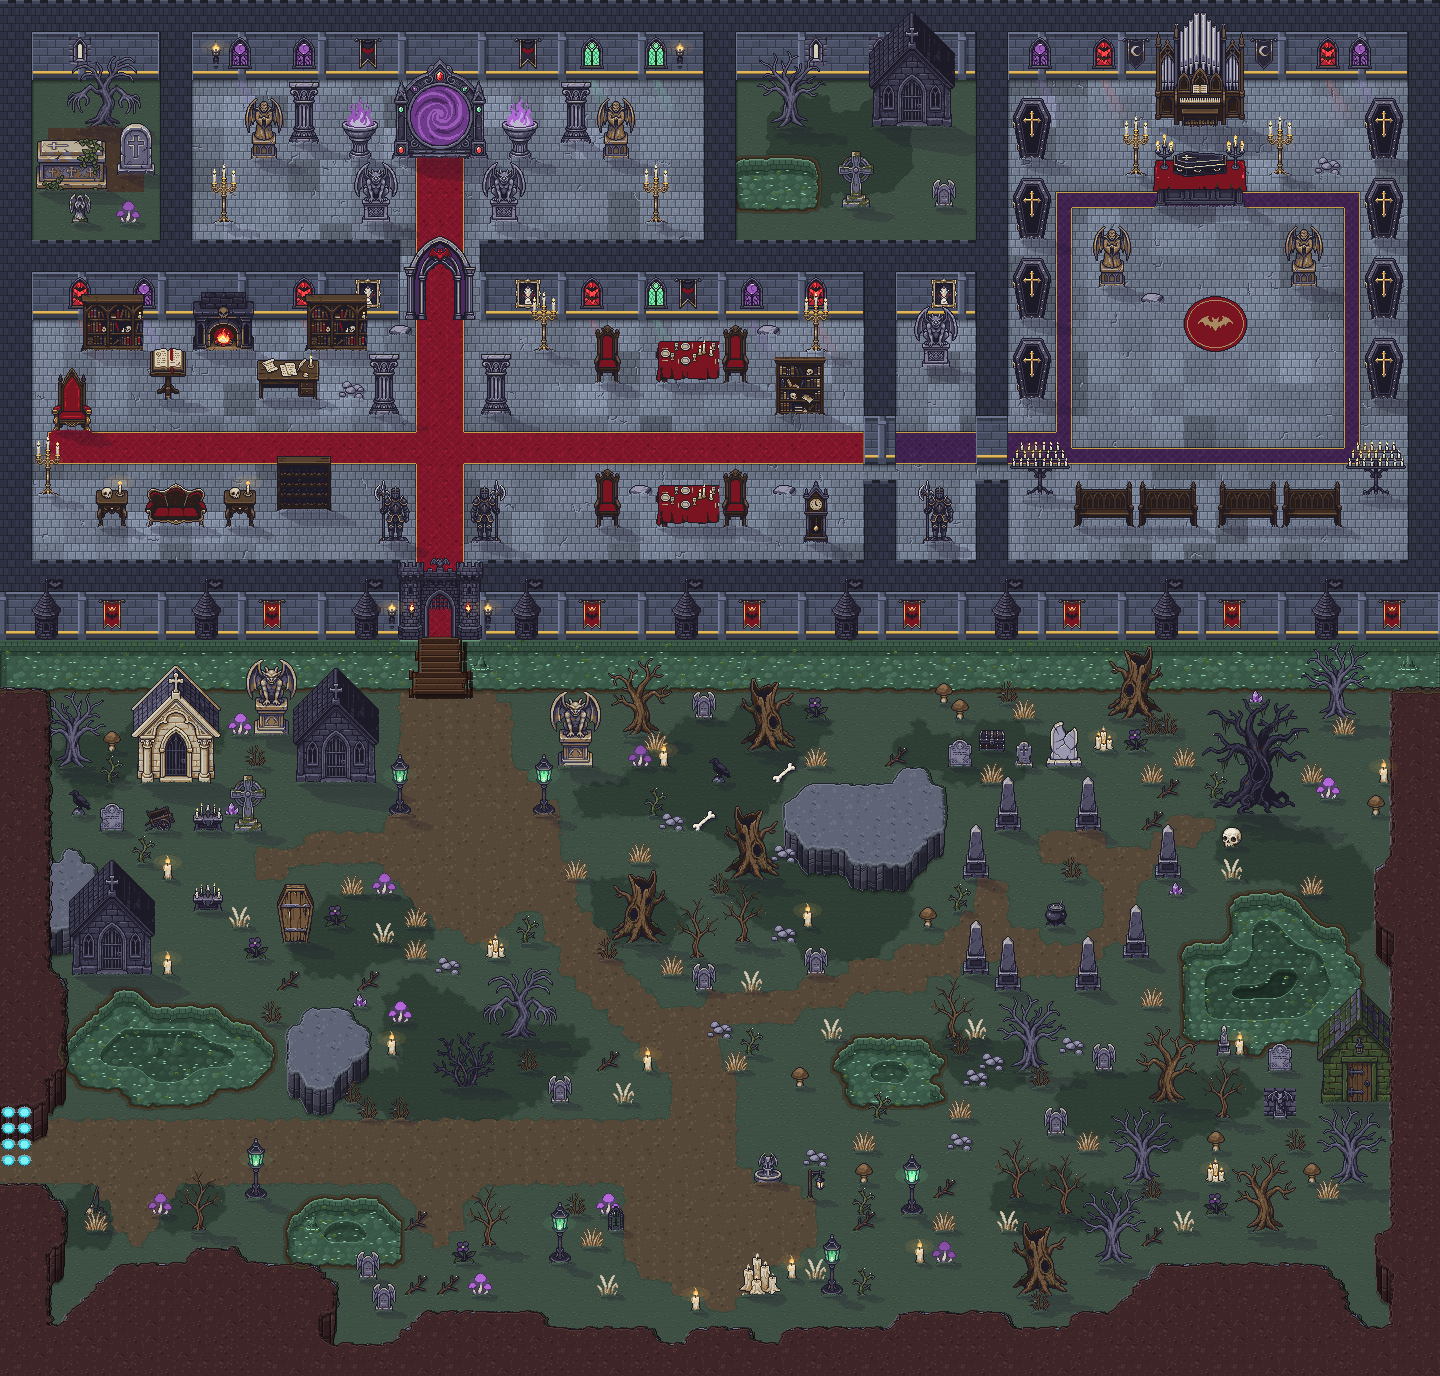
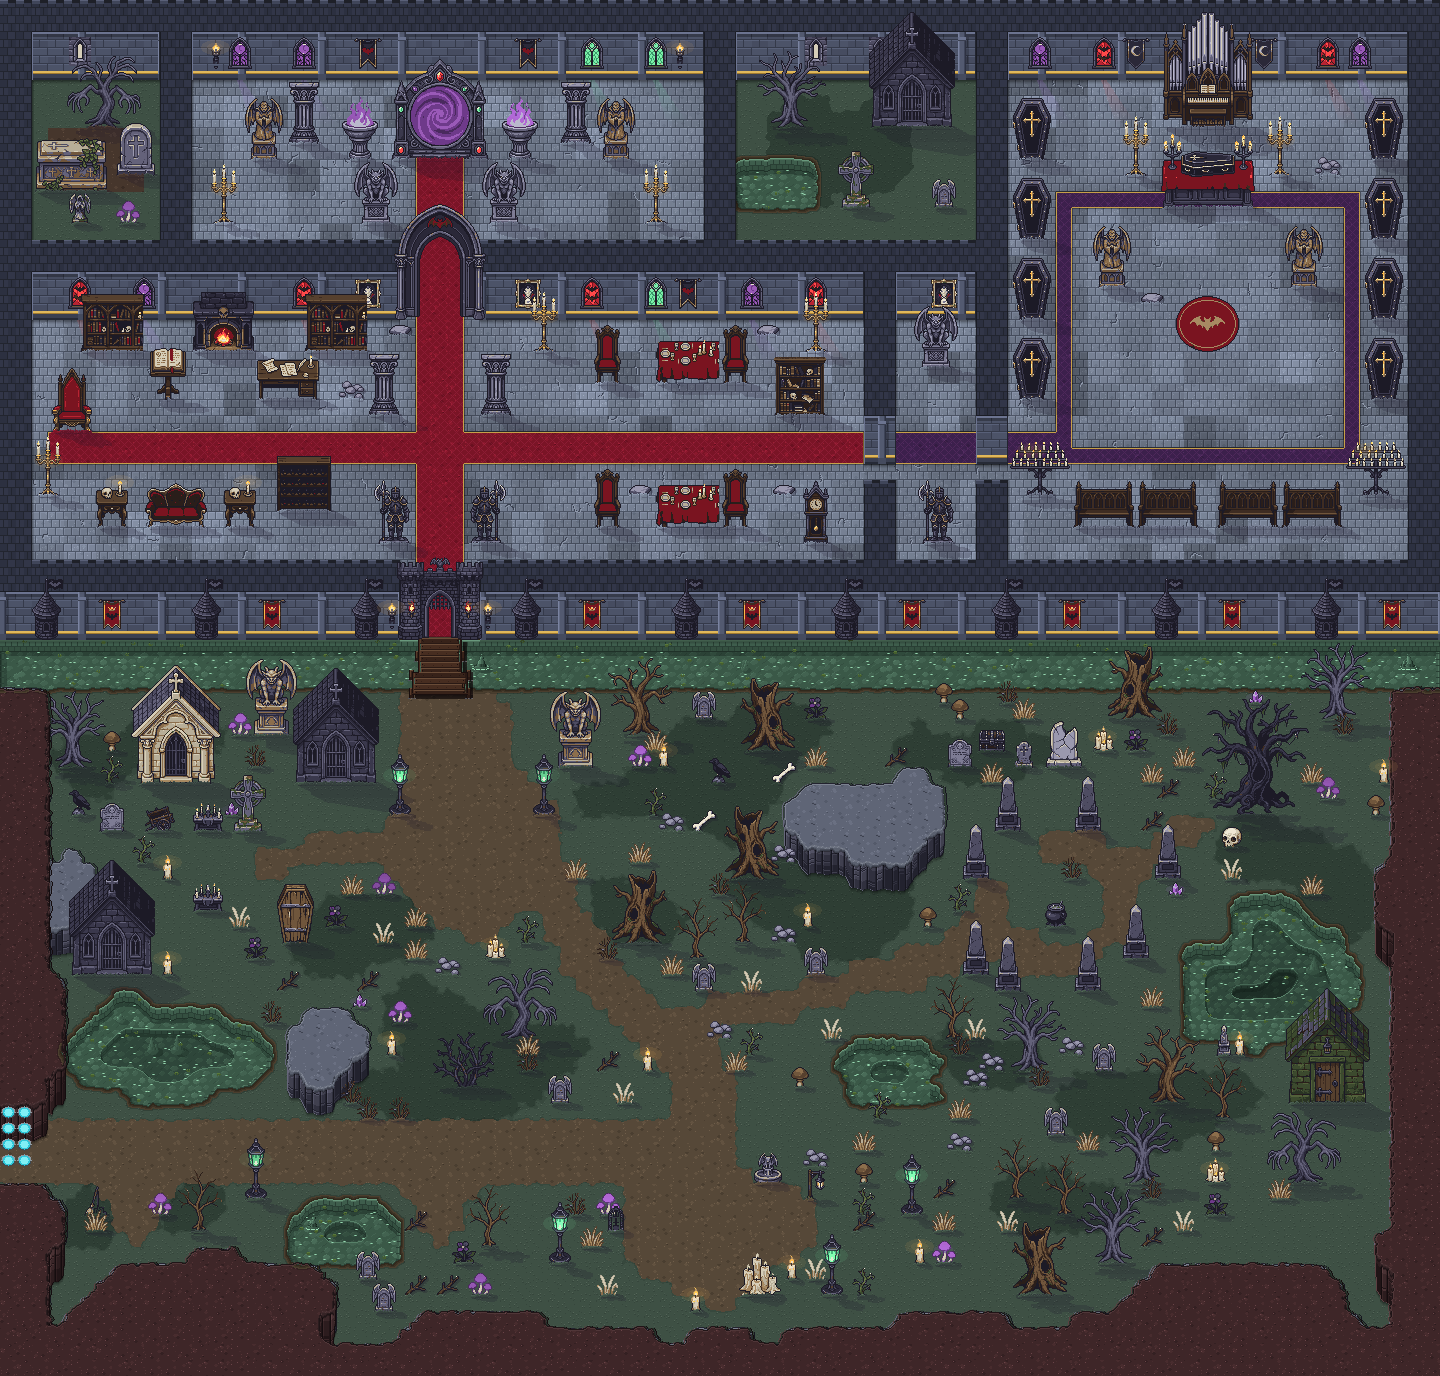
Karte 09: groesseres inneres Tor (PixelLab k9_tor3, offener Durchgang), Haus rechts 2 Kacheln nach links, Deko mit Kachelhintergrund entfernt, Orgel/Altar/Fledermaus-Teppich exakt auf der Achse des Ritualsaals
Claude-Session: https://claude.ai/code/session_01SaoYHKhnro4LFcPJqjaPsq

diff --git a/tools/karte09_objekte.py b/tools/karte09_objekte.py
@@ -21,7 +21,7 @@ OBJ = os.path.join(ROOT, 'assets', 'objekte', 'karte09')
 OBJ8 = os.path.join(ROOT, 'assets', 'objekte', 'karte08')
 T = 16
 ACHSE_B = 27 * T + 8              # Teppichachse Portalhalle / grosser Saal (Teppich x 26-28 -> Mitte 440 px)
-ACHSE_D = 75 * T + 8              # Ritualsaal (Rahmen x 66-84)
+ACHSE_D = (66 * T + 85 * T) // 2   # Ritualsaal: Mitte des Teppichrahmens (x 66-84) = 1208 px
 
 TURM = 'turm/03'                  # neuer Wachturm (PixelLab k9_turm) mit Fledermaus-Fahne
 BANNER_AUSSEN = 'banner/03'       # neue Banner (PixelLab k9_banner)
@@ -66,9 +66,9 @@ FEST = [
     # ---- Gang zum Ritualsaal
     ('moebel/13', 58, 22, {}), ('moebel/09', 58, 33, {}),
     # ---- Ritualsaal: Orgel, Altar, Saerge an den Waenden, Statuen, Baenke, Fledermaus-Teppich im Kreis
-    ('gross/00', 75, 6, {}), ('gross/01', 75, 10, {}),
+    ('gross/00', 75, 6, {'achse': True}), ('gross/01', 75, 10, {'achse': True}),
     ('moebel/01', 71, 10, {'symm': 'kandD', 'anim': 'kerzen'}), ('moebel/01', 79, 10, {'symm': 'kandD', 'anim': 'kerzen'}),
-    ('einrichtung/04', 75, 21, {'boden': True}),
+    ('einrichtung/04', 75, 21, {'boden': True, 'achse': True}),
     ('einrichtung/13', 69, 17, {'symm': 'statD'}), ('einrichtung/13', 81, 17, {'symm': 'statD', 'spiegeln': True}),
     ('moebel/03', 69, 32, {'symm': 'bank1'}), ('moebel/03', 81, 32, {'symm': 'bank1'}),
     ('moebel/03', 73, 32, {'symm': 'bank2'}), ('moebel/03', 77, 32, {'symm': 'bank2'}),
@@ -80,7 +80,7 @@ FEST = [
     # Gartenhof: Gruft, toter Baum, Grab
     ('k8/krypta/00', 57, 7, {}), ('k8/baeume/00', 49, 7, {}), ('k8/mittel/02', 53, 12, {}), ('wand/38', 59, 12, {}),
     # Friedhof: Mausoleum, Gruften, Steinkreis, Lager, Statue, grosser toter Baum
-    ('k8/krypta/02', 11, 48, {}), ('k8/krypta/00', 21, 48, {}), ('k8/krypta/00', 4, 62, {}), ('k8/krypta/03', 84, 68, {}),
+    ('k8/krypta/02', 11, 48, {}), ('k8/krypta/00', 21, 48, {}), ('k8/krypta/00', 4, 62, {}), ('k8/krypta/03', 82, 68, {}),
     ('k8/gross/03', 77, 50, {}), ('wand/32', 38, 76, {}), ('k8/graeber/09', 20, 47, {}), ('k8/graeber/09', 36, 47, {'spiegeln': True}),
     ('wand/34', 66, 57, {}),
 ] + [('k8/mittel/04', x, y, {}) for (x, y) in ((61, 54), (63, 51), (68, 51), (73, 54), (71, 59), (68, 61), (63, 61), (61, 58))] + [
@@ -88,7 +88,7 @@ FEST = [
     ('k8/mittel/05', 35, 78, {'anim': 'geisterlicht'}), ('k8/mittel/05', 52, 80, {'anim': 'geisterlicht'}),
     ('k8/mittel/05', 24, 50, {'anim': 'geisterlicht'}), ('k8/mittel/05', 34, 50, {'anim': 'geisterlicht'}),
     ('k8/mittel/05', 57, 75, {'anim': 'geisterlicht'}), ('k8/mittel/05', 16, 74, {'anim': 'geisterlicht'}),
-    ('wand/26', 62, 46, {}), ('wand/53', 6, 75, {}), ('k8/mittel/11', 18, 58, {}), ('wand/28', 80, 69, {}),
+    ('wand/26', 62, 46, {}), ('wand/53', 6, 75, {}), ('k8/mittel/11', 18, 58, {}),
 ]
 GROSS2 = set()                    # keine Vergroesserung: Wandobjekte passen in Originalgroesse auf die Wand
 GRAEBER = ['k8/mittel/00', 'k8/mittel/01', 'k8/mittel/02', 'k8/mittel/03', 'k8/klein/50', 'k8/klein/51', 'wand/21',
@@ -122,7 +122,7 @@ def raster_x(a, X):
     return bx * T + (wt * T - w) // 2 - int(xs.min())
 
 
-def tor_anpassen(sp):
+def tor_anpassen(sp, umfaerben=True):
     """Tor passend zur Karte: Stein in den Farben der Schlossmauern (nach Helligkeit), Fackeln/Flammen bleiben;
     der dunkle Durchgang wird transparent (Teppich und Boden scheinen durch, das hochgezogene Gitter bleibt)."""
     from collections import deque
@@ -150,7 +150,8 @@ def tor_anpassen(sp):
     out = a.copy()
     idx = np.clip((lum / 255.0 * 1.25 * (len(ramp) - 1)).astype(int), 0, len(ramp) - 1)
     m = stein & ~durch
-    out[m, :3] = ramp[idx[m]]
+    if umfaerben:
+        out[m, :3] = ramp[idx[m]]
     out[durch, 3] = 0
     return Image.fromarray(np.clip(out, 0, 255).astype(np.uint8), 'RGBA')
 
@@ -248,8 +249,8 @@ def main():
         key = (name, spiegeln)
         if key not in cache:
             sp = saeubern(Image.open(quelle(name)).convert('RGBA'))
-            if name in ('tor/00', 'tor/01'):
-                sp = tor_anpassen(sp)
+            if name in ('tor/00', 'tor/01', 'tor3/00'):
+                sp = tor_anpassen(sp, umfaerben=not name.startswith('tor3/'))   # tor3 hat schon Mauerfarben
             if name == 'einrichtung/03':
                 sp = groesstes_teil(sp)
             if name == 'einrichtung/01':
@@ -342,13 +343,13 @@ def main():
                         **({'anim': 'kerzen'} if name == 'wand/04' else {})})
     # Tuerme auf der Aussenmauer und Tore (stehen auf/vor der Mauer, eigene Platzierung)
     for (name, tx, fuss_px) in [(TURM, x, 39 * T + 15) for x in (2, 12, 22, 32, 42, 52, 62, 72, 82)] + \
-                               [('tor2/01', 27, 39 * T + 15), ('tor2/02', 27, 19 * T + 15)]:
+                               [('tor2/01', 27, 39 * T + 15), ('tor3/00', 27, 19 * T + 15)]:
         datei, h, zu, mitte = sprite(name, False)
-        if name.startswith(('tor/', 'tor2/')):
+        if name.startswith(('tor/', 'tor2/', 'tor3/')):
             xs_ = np.nonzero(alpha[datei].any(axis=0))[0]
             mitte = (xs_.min() + xs_.max() + 1) / 2.0             # Tor genau mittig auf der Teppichachse
         x, y = int(round(tx * T + T / 2 - mitte)), fuss_px - zu
-        if not name.startswith(('tor/', 'tor2/')):          # Tore bleiben exakt auf der Teppichachse (440 px)
+        if not name.startswith(('tor/', 'tor2/', 'tor3/')):          # Tore bleiben exakt auf der Teppichachse (440 px)
             x = raster_x(alpha[datei], tx * T + T / 2)
         objekte.append({'datei': datei, 'basis': name, 'x': x, 'y': y, 'fuss': h, 'kachel': [int(tx), fuss_px // T],
                         'ebene': 1, 'an_wand': True, 'kein_schatten': True, 'keine_verdeckung': True,
@@ -408,7 +409,8 @@ def symmetrie():
         if o.get('achse'):
             a_ = np.array(Image.open(os.path.join(OBJ, o['datei'])).getchannel('A')) > 128
             xs_ = np.nonzero(a_.any(axis=0))[0]
-            o['x'] = int(round(ACHSE_B - (xs_.min() + xs_.max() + 1) / 2.0))
+            achse_ = ACHSE_D if o['x'] > 62 * T else ACHSE_B
+            o['x'] = int(round(achse_ - (xs_.min() + xs_.max() + 1) / 2.0))
     paare = {}
     for o in objs:
         if o.get('symm'):

diff --git a/tools/pixellab_objekte.py b/tools/pixellab_objekte.py
@@ -747,6 +747,9 @@ OBJEKTGRUPPEN_K8 = {
         'stone gargoyle statue on a pedestal, perfectly straight front elevation view, symmetric, facing the camera head-on, no side wall visible, no perspective, no isometric, flat orthographic, classic 2D handheld RPG style', 'cluster of melting candles, perfectly straight front elevation view, symmetric, facing the camera head-on, no side wall visible, no perspective, no isometric, flat orthographic, classic 2D handheld RPG style',
         'dead thorny bush, perfectly straight front elevation view, symmetric, facing the camera head-on, no side wall visible, no perspective, no isometric, flat orthographic, classic 2D handheld RPG style', 'wooden signpost with a skull, perfectly straight front elevation view, symmetric, facing the camera head-on, no side wall visible, no perspective, no isometric, flat orthographic, classic 2D handheld RPG style',
     ]},
+    'k9_tor3': {'size': 128, 'items': [
+        'large inner gothic castle doorway arch in dark grey stone, tall wide open passage with no door (empty, transparent inside), ornate pointed arch with a violet inner arch and a red bat crest above, slim columns on both sides, about as wide as a 3 tile carpet plus columns, perfectly straight front elevation view, symmetric, facing the camera head-on, no perspective, no isometric, flat orthographic, classic 2D handheld RPG style',
+    ]},
     'k9_tor2': {'size': 96, 'items': [
         'gothic castle gatehouse in a dark blue-grey stone brick wall, tall pointed archway with an OPEN EMPTY passage (nothing inside the arch, transparent), raised iron portcullis at the top of the arch, bat emblem keystone, two small spires, perfectly straight front elevation view, symmetric, facing the camera head-on, no perspective, no isometric, flat orthographic, classic 2D handheld RPG style',
         'gothic castle main gate tower, dark slate-grey stone bricks, wide pointed arch passage completely open and empty, portcullis pulled up, two wall torches, battlements on top with a small bat statue, perfectly straight front elevation view, symmetric, facing the camera head-on, no perspective, no isometric, flat orthographic, classic 2D handheld RPG style',

diff --git a/tools/regeln_v11.py b/tools/regeln_v11.py
@@ -22,7 +22,7 @@ LIEGEND = {
 }
 NICHT_RASTERN = {'karte02': ('schatten', 'abgeleitet/laterne', 'abgeleitet/leer', 'kran'),
                  'karte03': ('abgeleitet/arena_tor', 'abgeleitet/buehne', 'abgeleitet/box_monitor'),
-                 'karte09': ('gross/03', 'tor/00', 'tor/01', 'tor2/01', 'tor2/02', 'einrichtung/05', 'einrichtung/04')}
+                 'karte09': ('gross/03', 'tor/00', 'tor/01', 'tor2/01', 'tor2/02', 'tor3/00', 'einrichtung/05', 'einrichtung/04')}
 BAUM = ('baeume/', 'rand/')
 ABSTAND = {'karte03': 1}                             # Pixelpruefung mit Abstand (je Seite 1 px = 2 px Luecke)
 
